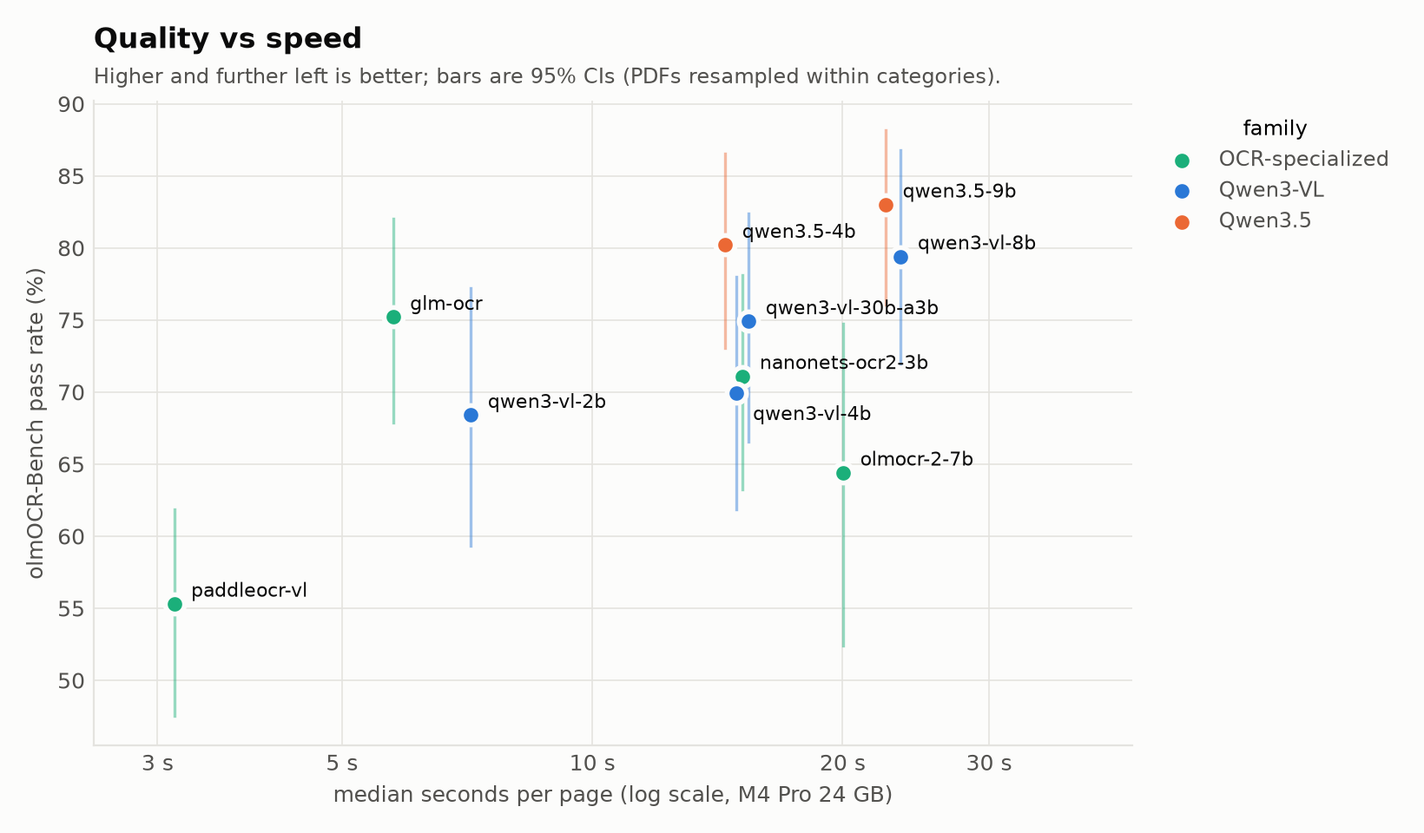
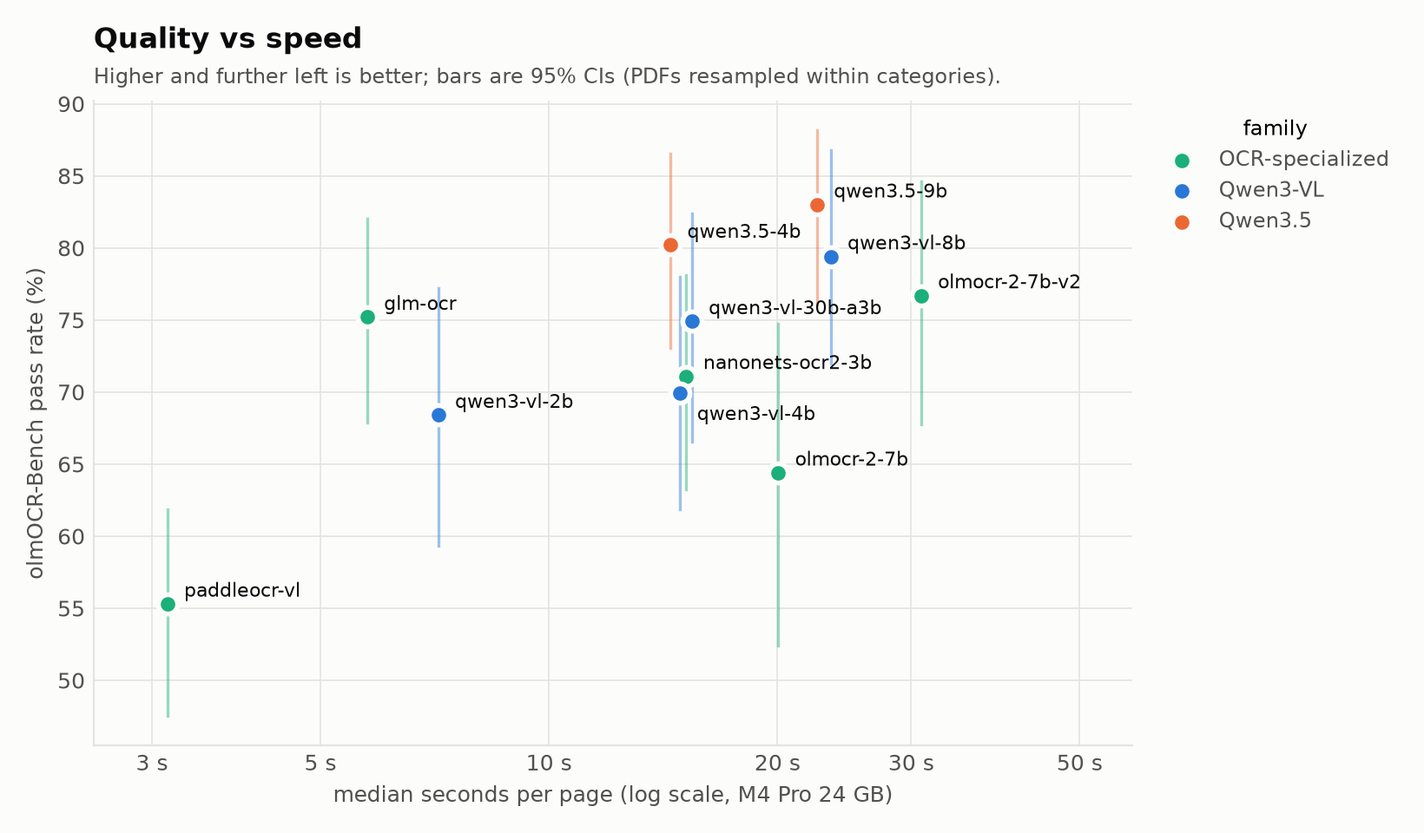
bench: final results with olmocr-2-7b-v2; docs and overview PDF regenerated
olmocr-2-7b-v2 (same weights, run closer to the authors' pipeline) on the screening
sample: 76.7% vs 64.4% for the first adapter (paired +12.3 pts [+2.0, +23.2],
p = 0.061), outputs with no page text 9 -> 0, median 30.9 vs 20.0 s/page; synthetic
CER unchanged (p = 0.94). The deep sample was chosen before v2 existed: the docs now
say so (generated note) instead of implying the selection rule covers it. The
olmOCR-Bench failure analysis gets a dated follow-up with the measured result.

diff --git a/scripts/bench_docs.py b/scripts/bench_docs.py
@@ -263,6 +263,31 @@ def _separation(summary: dict | None, suite_name: str, metric: str, label: str) 
     return text.strip()
 
 
+def not_in_deep(screen: dict | None, deep: dict | None) -> str:
+    """Candidates the selection rule would include but the deep run does not have (e.g. a
+    candidate added to the screening after the deep sample was chosen)."""
+    a, b = _olm(screen), _olm(deep)
+    if not a or not b:
+        return ""
+    pv = a.get("paired_vs_best", {})
+    missing = [
+        n
+        for n in complete(a, "pass_rate")
+        if n not in b["scores"] and n != a["best"] and pv.get(n) and not pv[n].get("significant")
+    ]
+    if not missing:
+        return ""
+    return (
+        "Not run on the deep sample, although the screening does not separate "
+        + ("it" if len(missing) == 1 else "them")
+        + " from the top mean: "
+        + names_list([f"{n} ({_p(pv[n]['p_value'])})" for n in missing])
+        + "; the deep sample was chosen before "
+        + ("it was" if len(missing) == 1 else "they were")
+        + " run."
+    )
+
+
 def _subset_mean(score, clusters: set[str]) -> float | None:
     """Mean over categories of the category mean, restricted to units in ``clusters`` (the
     scorer's own aggregation, applied to a subset of PDFs)."""
@@ -508,6 +533,8 @@ def results() -> str:
             "separate from the top mean (paired p ≥ 0.05), plus the one with the lowest "
             "synthetic CER",
         )
+        if note := not_in_deep(screen, deep):
+            out += [note, ""]
     if screen:
         out += [
             "#### Pass rate by category (screening, %)",

diff --git a/docs/benchmark/screen_report.md b/docs/benchmark/screen_report.md
@@ -1,6 +1,6 @@
 # OCR benchmark: run `screen`
 
-Generated 2026-09-25T11:01:20+00:00 · docingest 0.1.0 (pipeline 0.3.0) · mlx-vlm 0.7.3 · Apple M4 Pro, 24.0 GB RAM · macOS-26.6.2-arm64-arm-64bit
+Generated 2026-09-25T16:14:45+00:00 · docingest 0.1.0 (pipeline 0.3.0) · mlx-vlm 0.7.3 · Apple M4 Pro, 24.0 GB RAM · macOS-26.6.2-arm64-arm-64bit
 
 Intervals are 95% percentile bootstrap CIs that resample independent clusters, not single units: a synthetic page with all its degradation levels, an olmOCR-bench PDF with all its tests (within its category). Paired comparisons take the units both candidates scored: a cluster bootstrap CI (10000 resamples, seed 0) and a two-sided sign-flip test over clusters (every pattern up to 16 clusters, else 10000 random ones); *significant* means p < 0.05. With k clusters the smallest attainable p is 2/2^k.
 
@@ -11,6 +11,7 @@ Intervals are 95% percentile bootstrap CIs that resample independent clusters, n
 | glm-ocr | mlx-community/GLM-OCR-4bit | 97f5875069 | glm-ocr | mlx-vlm | – | – |
 | nanonets-ocr2-3b | mlx-community/Nanonets-OCR2-3B-4bit | fe1396cbeb | nanonets | mlx-vlm | – | – |
 | olmocr-2-7b | mlx-community/olmOCR-2-7B-1025-mlx-4bit | c0eaffb784 | olmocr | mlx-vlm | – | – |
+| olmocr-2-7b-v2 | mlx-community/olmOCR-2-7B-1025-mlx-4bit | c0eaffb784 | olmocr | mlx-vlm | – | – |
 | paddleocr-vl | mlx-community/PaddleOCR-VL-1.6-4bit | c8987b277b | paddleocr-vl | mlx-vlm | – | – |
 | qwen3-vl-2b | mlx-community/Qwen3-VL-2B-Instruct-4bit | 9c4f5209e5 | markdown | mlx-vlm | – | – |
 | qwen3-vl-30b-a3b | mlx-community/Qwen3-VL-30B-A3B-Instruct-4bit | 0555d34cb1 | markdown | mlx-vlm | – | – |
@@ -27,7 +28,7 @@ Primary metric: **cer** (lower is better).
 
 ### Overall
 
-| rank | candidate | cer | wer | word_f1 | char3_f1 | outputs |
+| # | candidate | cer | wer | word_f1 | char3_f1 | outputs |
 |---|---|---|---|---|---|---|
 | 1 | nanonets-ocr2-3b | 0.011 [0.004, 0.020] | 0.044 [0.029, 0.061] | 0.968 [0.957, 0.978] | 0.988 [0.982, 0.992] | 33/36 |
 | 2 | qwen3.5-9b | 0.014 [0.004, 0.030] | 0.039 [0.020, 0.064] | 0.975 [0.961, 0.987] | 0.991 [0.983, 0.996] | 33/36 |
@@ -37,8 +38,9 @@ Primary metric: **cer** (lower is better).
 | 6 | glm-ocr | 0.030 [0.009, 0.054] | 0.047 [0.023, 0.074] | 0.970 [0.954, 0.983] | 0.981 [0.968, 0.993] | 33/36 |
 | 7 | qwen3-vl-8b | 0.044 [0.003, 0.116] | 0.076 [0.024, 0.161] | 0.976 [0.966, 0.984] | 0.992 [0.987, 0.996] | 33/36 |
 | 8 | olmocr-2-7b | 0.069 [0.011, 0.137] | 0.097 [0.032, 0.169] | 0.946 [0.887, 0.980] | 0.960 [0.900, 0.993] | 33/36 |
-| 9 | qwen3-vl-4b | 0.073 [0.011, 0.157] | 0.098 [0.038, 0.178] | 0.940 [0.895, 0.973] | 0.957 [0.909, 0.991] | 33/36 |
-| 10 | qwen3-vl-2b | 0.094 [0.030, 0.179] | 0.107 [0.048, 0.189] | 0.940 [0.887, 0.972] | 0.954 [0.904, 0.983] | 33/36 |
+| 9 | olmocr-2-7b-v2 | 0.072 [0.018, 0.136] | 0.109 [0.051, 0.173] | 0.938 [0.898, 0.967] | 0.958 [0.917, 0.988] | 33/36 |
+| 10 | qwen3-vl-4b | 0.073 [0.011, 0.157] | 0.098 [0.038, 0.178] | 0.940 [0.895, 0.973] | 0.957 [0.909, 0.991] | 33/36 |
+| 11 | qwen3-vl-2b | 0.094 [0.030, 0.179] | 0.107 [0.048, 0.189] | 0.940 [0.887, 0.972] | 0.954 [0.904, 0.983] | 33/36 |
 
 One cluster = a page with all its degradation levels; 11 clusters.
 
@@ -54,12 +56,13 @@ One cluster = a page with all its degradation levels; 11 clusters.
 | glm-ocr | 0.038 [0.007, 0.083] | 0.027 [0.005, 0.055] | 0.024 [0.003, 0.051] |
 | qwen3-vl-8b | 0.061 [0.003, 0.169] | 0.009 [0.003, 0.022] | 0.062 [0.003, 0.170] |
 | olmocr-2-7b | 0.026 [0.004, 0.064] | 0.099 [0.003, 0.281] | 0.081 [0.007, 0.196] |
+| olmocr-2-7b-v2 | 0.030 [0.006, 0.067] | 0.133 [0.016, 0.290] | 0.054 [0.011, 0.107] |
 | qwen3-vl-4b | 0.013 [0.005, 0.025] | 0.195 [0.011, 0.460] | 0.011 [0.004, 0.023] |
 | qwen3-vl-2b | 0.061 [0.020, 0.122] | 0.161 [0.036, 0.366] | 0.060 [0.016, 0.124] |
 
-### Paired comparison vs best (`nanonets-ocr2-3b`)
+### Paired comparison vs `nanonets-ocr2-3b` (lowest mean)
 
-| candidate | Δ cer (candidate − best) [CI] | p | significant | pairs | clusters |
+| candidate | Δ cer (candidate − `nanonets-ocr2-3b`) [CI] | p | significant | pairs | clusters |
 |---|---|---|---|---|---|
 | qwen3.5-9b | +0.003 [-0.008, 0.018] | 0.7998 | no | 33 | 11 |
 | qwen3.5-4b | +0.010 [0.001, 0.025] | 0.0469 | yes | 33 | 11 |
@@ -68,6 +71,7 @@ One cluster = a page with all its degradation levels; 11 clusters.
 | glm-ocr | +0.019 [0.003, 0.038] | 0.1211 | no | 33 | 11 |
 | qwen3-vl-8b | +0.033 [-0.002, 0.100] | 0.4922 | no | 33 | 11 |
 | olmocr-2-7b | +0.057 [0.003, 0.125] | 0.0527 | no | 33 | 11 |
+| olmocr-2-7b-v2 | +0.061 [0.008, 0.124] | 0.0469 | yes | 33 | 11 |
 | qwen3-vl-4b | +0.062 [-0.002, 0.150] | 0.1865 | no | 33 | 11 |
 | qwen3-vl-2b | +0.083 [0.021, 0.162] | 0.0010 | yes | 33 | 11 |
 
@@ -77,7 +81,8 @@ One cluster = a page with all its degradation levels; 11 clusters.
 |---|---|---|---|---|---|---|---|---|---|---|
 | glm-ocr | 36 | 7.892 | 10.898 | ≥134.8 | 2.41 | ≥0.0% | 0.0% | n/a | 0.0% | 0 |
 | nanonets-ocr2-3b | 36 | 19.261 | 24.448 | ≥59.6 | 4.13 | ≥0.0% | 0.0% | n/a | 0.0% | 0 |
-| olmocr-2-7b | 36 | 30.212 | 40.085 | ≥35.6 | 6.56 | ≥0.0% | 0.0% | n/a | 0.0% | 0 |
+| olmocr-2-7b | 36 | 30.212 | 40.085 | ≥35.6 | 6.56 | ≥0.0% | 0.0% | n/a | 2.8% | 0 |
+| olmocr-2-7b-v2 | 36 | 55.102 | 222.159 | 48.9 | 6.56 | 0.0% | 0.0% | 52.8% | 0.0% | 0 |
 | paddleocr-vl | 36 | 3.608 | 5.556 | ≥247.1 | 1.68 | ≥0.0% | 0.0% | n/a | 0.0% | 0 |
 | qwen3-vl-2b | 36 | 11.082 | 19.389 | ≥70.4 | 2.99 | ≥5.6% | 5.6% | n/a | 0.0% | 0 |
 | qwen3-vl-30b-a3b | 36 | 21.538 | 32.207 | 67.6 | 19.33 | 2.8% | 0.0% | 2.8% | 0.0% | 0 |
@@ -97,18 +102,19 @@ Primary metric: **pass_rate** (higher is better).
 
 ### Overall
 
-| rank | candidate | pass_rate | outputs |
+| # | candidate | pass_rate | outputs |
 |---|---|---|---|
 | 1 | qwen3.5-9b | 83.0% [76.1, 88.2] | 42/42 |
 | 2 | qwen3.5-4b | 80.2% [73.0, 86.5] | 42/42 |
 | 3 | qwen3-vl-8b | 79.4% [72.0, 86.8] | 42/42 |
-| 4 | glm-ocr | 75.2% [67.9, 82.0] | 42/42 |
-| 5 | qwen3-vl-30b-a3b | 74.9% [66.6, 82.4] | 42/42 |
-| 6 | nanonets-ocr2-3b | 71.1% [63.2, 78.1] | 42/42 |
-| 7 | qwen3-vl-4b | 69.9% [61.8, 78.0] | 42/42 |
-| 8 | qwen3-vl-2b | 68.4% [59.3, 77.2] | 42/42 |
-| 9 | olmocr-2-7b | 64.4% [52.4, 74.8] | 42/42 |
-| 10 | paddleocr-vl | 55.3% [47.5, 61.9] | 42/42 |
+| 4 | olmocr-2-7b-v2 | 76.7% [67.8, 84.6] | 42/42 |
+| 5 | glm-ocr | 75.2% [67.9, 82.0] | 42/42 |
+| 6 | qwen3-vl-30b-a3b | 74.9% [66.6, 82.4] | 42/42 |
+| 7 | nanonets-ocr2-3b | 71.1% [63.2, 78.1] | 42/42 |
+| 8 | qwen3-vl-4b | 69.9% [61.8, 78.0] | 42/42 |
+| 9 | qwen3-vl-2b | 68.4% [59.3, 77.2] | 42/42 |
+| 10 | olmocr-2-7b | 64.4% [52.4, 74.8] | 42/42 |
+| 11 | paddleocr-vl | 55.3% [47.5, 61.9] | 42/42 |
 
 One cluster = a PDF with all its tests, drawn within its category; 42 clusters.
 
@@ -119,12 +125,13 @@ Official scorer CI, to compare with the leaderboard's ±: olmocr.bench: tests re
 | qwen3.5-9b | [78.2, 87.2] | 4.5% |
 | qwen3.5-4b | [74.9, 85.2] | 5.2% |
 | qwen3-vl-8b | [74.8, 83.9] | 4.6% |
+| olmocr-2-7b-v2 | [71.7, 81.6] | 4.9% |
 | glm-ocr | [70.5, 79.5] | 4.5% |
 | qwen3-vl-30b-a3b | [69.4, 80.1] | 5.4% |
 | nanonets-ocr2-3b | [66.1, 75.9] | 4.9% |
 | qwen3-vl-4b | [64.4, 75.4] | 5.5% |
 | qwen3-vl-2b | [62.7, 73.7] | 5.5% |
-| olmocr-2-7b | [58.6, 70.3] | 5.9% |
+| olmocr-2-7b | [58.6, 70.2] | 5.8% |
 | paddleocr-vl | [50.1, 60.9] | 5.4% |
 
 ### By category (pass_rate)
@@ -134,6 +141,7 @@ Official scorer CI, to compare with the leaderboard's ±: olmocr.bench: tests re
 | qwen3.5-9b | 83.3% [61.1, 97.4] | 100.0% [100.0, 100.0] | 88.0% [66.7, 100.0] | 87.5% [72.7, 100.0] | 73.3% [43.8, 94.1] | 50.0% [22.2, 70.6] | 88.2% [76.2, 94.0] | 93.8% [86.8, 100.0] |
 | qwen3.5-4b | 80.6% [61.1, 92.9] | 100.0% [100.0, 100.0] | 76.0% [46.2, 95.5] | 90.6% [86.1, 96.5] | 66.7% [40.0, 88.2] | 56.2% [30.4, 79.0] | 86.8% [77.6, 96.0] | 84.4% [58.3, 100.0] |
 | qwen3-vl-8b | 88.9% [67.5, 100.0] | 100.0% [100.0, 100.0] | 44.0% [20.0, 87.5] | 87.5% [78.6, 94.6] | 80.0% [54.5, 94.4] | 59.4% [28.0, 82.5] | 91.2% [87.0, 96.5] | 84.4% [50.0, 100.0] |
+| olmocr-2-7b-v2 | 80.6% [54.2, 95.8] | 95.1% [87.8, 100.0] | 100.0% [100.0, 100.0] | 43.8% [12.1, 81.5] | 66.7% [28.6, 94.1] | 56.2% [30.4, 79.0] | 83.8% [75.0, 90.6] | 87.5% [66.7, 100.0] |
 | glm-ocr | 69.4% [35.7, 86.7] | 100.0% [100.0, 100.0] | 100.0% [100.0, 100.0] | 96.9% [91.4, 100.0] | 73.3% [50.0, 88.9] | 53.1% [28.6, 77.1] | 77.9% [65.2, 92.9] | 31.2% [0.0, 66.7] |
 | qwen3-vl-30b-a3b | 83.3% [64.9, 96.5] | 100.0% [100.0, 100.0] | 64.0% [33.3, 87.0] | 75.0% [55.6, 90.6] | 66.7% [38.5, 93.3] | 56.2% [29.6, 78.1] | 91.2% [84.6, 94.3] | 62.5% [27.8, 100.0] |
 | nanonets-ocr2-3b | 75.0% [44.8, 91.7] | 100.0% [100.0, 100.0] | 32.0% [23.1, 42.1] | 90.6% [86.1, 96.5] | 80.0% [58.3, 94.1] | 56.2% [24.0, 82.3] | 35.3% [3.9, 72.7] | 100.0% [100.0, 100.0] |
@@ -142,12 +150,13 @@ Official scorer CI, to compare with the leaderboard's ±: olmocr.bench: tests re
 | olmocr-2-7b | 83.3% [47.8, 100.0] | 80.5% [68.3, 92.7] | 72.0% [41.7, 100.0] | 71.9% [37.1, 96.4] | 46.7% [13.3, 75.0] | 37.5% [18.8, 56.7] | 70.6% [21.4, 85.3] | 53.1% [19.4, 90.0] |
 | paddleocr-vl | 66.7% [40.9, 77.1] | 95.1% [87.8, 100.0] | 20.0% [5.9, 35.0] | 78.1% [63.3, 91.7] | 66.7% [28.6, 94.1] | 43.8% [16.7, 67.7] | 66.2% [53.8, 89.3] | 6.2% [0.0, 20.0] |
 
-### Paired comparison vs best (`qwen3.5-9b`)
+### Paired comparison vs `qwen3.5-9b` (highest mean)
 
-| candidate | Δ pass_rate (candidate − best) [CI] | p | significant | pairs | clusters |
+| candidate | Δ pass_rate (candidate − `qwen3.5-9b`) [CI] | p | significant | pairs | clusters |
 |---|---|---|---|---|---|
 | qwen3.5-4b | -2.9% [-8.6, 3.3] | 0.3933 | no | 281 | 42 |
 | qwen3-vl-8b | -3.6% [-10.0, 3.8] | 0.4940 | no | 281 | 42 |
+| olmocr-2-7b-v2 | -6.3% [-12.8, 0.5] | 0.1604 | no | 281 | 42 |
 | glm-ocr | -7.8% [-14.2, -0.5] | 0.1156 | no | 281 | 42 |
 | qwen3-vl-30b-a3b | -8.2% [-16.1, -0.3] | 0.0747 | no | 281 | 42 |
 | nanonets-ocr2-3b | -11.9% [-18.4, -4.8] | 0.0432 | yes | 281 | 42 |
@@ -162,7 +171,8 @@ Official scorer CI, to compare with the leaderboard's ±: olmocr.bench: tests re
 |---|---|---|---|---|---|---|---|---|---|---|
 | glm-ocr | 42 | 5.761 | 12.742 | ≥109.7 | 2.57 | ≥0.0% | 0.0% | n/a | 0.0% | 0 |
 | nanonets-ocr2-3b | 42 | 15.171 | 32.99 | ≥55.6 | 4.14 | ≥2.4% | 2.4% | n/a | 0.0% | 0 |
-| olmocr-2-7b | 42 | 20.04 | 44.381 | ≥33.9 | 6.6 | ≥0.0% | 0.0% | n/a | 0.0% | 0 |
+| olmocr-2-7b | 42 | 20.04 | 44.381 | ≥33.9 | 6.6 | ≥0.0% | 0.0% | n/a | 19.1% | 0 |
+| olmocr-2-7b-v2 | 42 | 30.908 | 182.927 | 48.7 | 6.6 | 0.0% | 0.0% | 35.7% | 0.0% | 0 |
 | paddleocr-vl | 42 | 3.142 | 6.706 | ≥209.1 | 1.69 | ≥0.0% | 0.0% | n/a | 0.0% | 0 |
 | qwen3-vl-2b | 42 | 7.146 | 23.133 | ≥88.2 | 3.06 | ≥0.0% | 0.0% | n/a | 0.0% | 0 |
 | qwen3-vl-30b-a3b | 42 | 15.423 | 36.308 | 66.8 | 19.49 | 2.4% | 0.0% | 2.4% | 0.0% | 0 |

diff --git a/docs/benchmark.md b/docs/benchmark.md
@@ -19,12 +19,13 @@ Machine: Apple M4 Pro, 24 GB; mlx-vlm 0.7.3, mlx 0.32.2. Full generated reports:
 | qwen3.5-9b | 83.0 [76.1, 88.2] | 4.5 | top mean | 22.5 | 7.8 | 0% | ≥0% |
 | qwen3.5-4b | 80.2 [73.0, 86.5] | 5.2 | -2.9 pts, p = 0.393: not distinguishable | 14.5 | 5.0 | 0% | ≥0% |
 | qwen3-vl-8b | 79.4 [72.0, 86.8] | 4.6 | -3.6 pts, p = 0.494: not distinguishable | 23.5 | 7.1 | 0% | ≥2% |
+| olmocr-2-7b-v2 | 76.7 [67.8, 84.6] | 4.9 | -6.3 pts, p = 0.160: not distinguishable | 30.9 | 6.6 | 0% | 0% |
 | glm-ocr | 75.2 [67.9, 82.0] | 4.5 | -7.8 pts, p = 0.116: not distinguishable | 5.8 | 2.6 | 0% | ≥0% |
 | qwen3-vl-30b-a3b | 74.9 [66.6, 82.4] | 5.4 | -8.2 pts, p = 0.075: not distinguishable | 15.4 | 19.5 | 0% | 2% |
 | nanonets-ocr2-3b | 71.1 [63.2, 78.1] | 4.9 | -11.9 pts, p = 0.043: lower (p < 0.05) | 15.2 | 4.1 | 0% | ≥2% |
 | qwen3-vl-4b | 69.9 [61.8, 78.0] | 5.5 | -13.1 pts, p = 0.001: lower (p < 0.05) | 14.9 | 4.5 | 0% | ≥0% |
 | qwen3-vl-2b | 68.4 [59.3, 77.2] | 5.5 | -14.6 pts, p = 0.001: lower (p < 0.05) | 7.1 | 3.1 | 0% | ≥0% |
-| olmocr-2-7b | 64.4 [52.4, 74.8] | 5.9 | -18.6 pts, p = 0.001: lower (p < 0.05) | 20.0 | 6.6 | 0% | ≥0% |
+| olmocr-2-7b | 64.4 [52.4, 74.8] | 5.8 | -18.6 pts, p = 0.001: lower (p < 0.05) | 20.0 | 6.6 | 19% | ≥0% |
 | paddleocr-vl | 55.3 [47.5, 61.9] | 5.4 | -27.7 pts, p = 0.000: lower (p < 0.05) | 3.1 | 1.7 | 0% | ≥0% |
 
 42 PDFs (42 clusters). *official ±* is the scorer's own interval (tests resampled independently, narrower); the bracketed CI resamples whole PDFs within categories. *vs top mean*: paired cluster bootstrap and sign-flip test against the candidate with the highest mean; p-values are per comparison, not adjusted for the number of comparisons (Comparisons below gives the Holm-adjusted verdicts).
@@ -42,6 +43,8 @@ Machine: Apple M4 Pro, 24 GB; mlx-vlm 0.7.3, mlx 0.32.2. Full generated reports:
 
 84 PDFs (84 clusters). *official ±* is the scorer's own interval (tests resampled independently, narrower); the bracketed CI resamples whole PDFs within categories. *vs top mean*: paired cluster bootstrap and sign-flip test against the candidate with the highest mean; p-values are per comparison, not adjusted for the number of comparisons (Comparisons below gives the Holm-adjusted verdicts).
 
+Not run on the deep sample, although the screening does not separate it from the top mean: olmocr-2-7b-v2 (p = 0.160); the deep sample was chosen before it was run.
+
 #### Pass rate by category (screening, %)
 
 ![olmOCR-Bench categories](benchmark/olmocr_categories.png)
@@ -51,6 +54,7 @@ Machine: Apple M4 Pro, 24 GB; mlx-vlm 0.7.3, mlx 0.32.2. Full generated reports:
 | qwen3.5-9b | 83 | 88 | 94 | 50 | 88 | 73 | 88 |
 | qwen3.5-4b | 81 | 87 | 84 | 56 | 76 | 67 | 91 |
 | qwen3-vl-8b | 89 | 91 | 84 | 59 | 44 | 80 | 88 |
+| olmocr-2-7b-v2 | 81 | 84 | 88 | 56 | 100 | 67 | 44 |
 | glm-ocr | 69 | 78 | 31 | 53 | 100 | 73 | 97 |
 | qwen3-vl-30b-a3b | 83 | 91 | 62 | 56 | 64 | 67 | 75 |
 | nanonets-ocr2-3b | 75 | 35 | 100 | 56 | 32 | 80 | 91 |
@@ -71,10 +75,11 @@ Machine: Apple M4 Pro, 24 GB; mlx-vlm 0.7.3, mlx 0.32.2. Full generated reports:
 | glm-ocr | 3.0 [0.9, 5.4] | 0.3 | 0.970 | 3.8 | 2.4 | 2.7 | 7.9 | 2.4 |
 | qwen3-vl-8b | 4.4 [0.3, 11.6] | 0.4 | 0.976 | 6.1 | 6.2 | 0.9 | 32.1 | 6.9 |
 | olmocr-2-7b | 6.9 [1.1, 13.7] | 0.3 | 0.946 | 2.6 | 8.1 | 9.9 | 30.2 | 6.6 |
+| olmocr-2-7b-v2 | 7.2 [1.8, 13.6] | 0.7 | 0.938 | 3.0 | 5.4 | 13.3 | 55.1 | 6.6 |
 | qwen3-vl-4b | 7.3 [1.1, 15.7] | 0.7 | 0.940 | 1.3 | 1.1 | 19.5 | 20.3 | 4.5 |
 | qwen3-vl-2b | 9.4 [3.0, 17.9] | 2.7 | 0.940 | 6.1 | 6.0 | 16.1 | 11.1 | 3.0 |
 
-**Reported separately: `olmocr_2502.18443.pdf#p001`.** Figure 1's internal vector text (1,103 of 3,225 reference characters) is in the text layer, panel-interleaved and with its spaces lost; a flawless transcription of the visible non-figure text scores CER 0.342 against it (found by the failure analysis). Per model on this page: nanonets-ocr2-3b 36.8%, qwen3.5-9b 46.7%, qwen3.5-4b 33.7%, paddleocr-vl 34.9%, qwen3-vl-30b-a3b 34.6%, glm-ocr 46.1%, qwen3-vl-8b 34.6%, olmocr-2-7b 36.7%, qwen3-vl-4b 35.6%, qwen3-vl-2b 56.9%.
+**Reported separately: `olmocr_2502.18443.pdf#p001`.** Figure 1's internal vector text (1,103 of 3,225 reference characters) is in the text layer, panel-interleaved and with its spaces lost; a flawless transcription of the visible non-figure text scores CER 0.342 against it (found by the failure analysis). Per model on this page: nanonets-ocr2-3b 36.8%, qwen3.5-9b 46.7%, qwen3.5-4b 33.7%, paddleocr-vl 34.9%, qwen3-vl-30b-a3b 34.6%, glm-ocr 46.1%, qwen3-vl-8b 34.6%, olmocr-2-7b 36.7%, olmocr-2-7b-v2 39.3%, qwen3-vl-4b 35.6%, qwen3-vl-2b 56.9%.
 
 ![Synthetic CER by degradation](benchmark/synthetic_cer.png)
 
@@ -83,11 +88,12 @@ Machine: Apple M4 Pro, 24 GB; mlx-vlm 0.7.3, mlx 0.32.2. Full generated reports:
 Generated from the run summaries and per-unit scores. They describe how the candidates differ; they do not pick a model.
 
 - **olmOCR-Bench, deep sample: paired tests against the highest mean.** qwen3.5-4b has the highest mean (79.4%, 84 PDFs). Not distinguished from it at the 5% level: qwen3.5-9b (-0.1 pts, p = 0.971), qwen3-vl-8b (-3.2 pts, p = 0.339), qwen3-vl-30b-a3b (-4.5 pts, p = 0.077) and glm-ocr (-7.2 pts, p = 0.053). Distinguished (lower): nanonets-ocr2-3b (-11.7 pts, p = 0.005). These p-values are per comparison; with a Holm correction for the 5 comparisons, the same verdicts hold.
-- **Synthetic CER: paired tests against the lowest mean.** nanonets-ocr2-3b has the lowest mean (1.1%, 36 page images). Not distinguished from it at the 5% level: qwen3.5-9b (+0.3 pts, p = 0.800), paddleocr-vl (+1.5 pts, p = 0.142), qwen3-vl-30b-a3b (+1.8 pts, p = 0.363), glm-ocr (+1.9 pts, p = 0.121), qwen3-vl-8b (+3.3 pts, p = 0.492), olmocr-2-7b (+5.7 pts, p = 0.053) and qwen3-vl-4b (+6.2 pts, p = 0.187). Distinguished (higher): qwen3.5-4b (+1.0 pts, p = 0.047) and qwen3-vl-2b (+8.3 pts, p < 0.001). These p-values are per comparison; with a Holm correction for the 9 comparisons, qwen3-vl-2b remains distinguished.
+- **Synthetic CER: paired tests against the lowest mean.** nanonets-ocr2-3b has the lowest mean (1.1%, 36 page images). Not distinguished from it at the 5% level: qwen3.5-9b (+0.3 pts, p = 0.800), paddleocr-vl (+1.5 pts, p = 0.142), qwen3-vl-30b-a3b (+1.8 pts, p = 0.363), glm-ocr (+1.9 pts, p = 0.121), qwen3-vl-8b (+3.3 pts, p = 0.492), olmocr-2-7b (+5.7 pts, p = 0.053) and qwen3-vl-4b (+6.2 pts, p = 0.187). Distinguished (higher): qwen3.5-4b (+1.0 pts, p = 0.047), olmocr-2-7b-v2 (+6.1 pts, p = 0.047) and qwen3-vl-2b (+8.3 pts, p < 0.001). These p-values are per comparison; with a Holm correction for the 10 comparisons, qwen3-vl-2b remains distinguished.
 - **Screening (42 PDFs) → deep (84 PDFs), pass rate.** The deep sample contains the screening PDFs and transcribes all of them again: qwen3.5-4b 80.2 → 79.4 (42 added: 77.8); qwen3.5-9b 83.0 → 79.3 (42 added: 74.6); qwen3-vl-8b 79.4 → 76.2 (42 added: 73.3); qwen3-vl-30b-a3b 74.9 → 74.9 (42 added: 74.1); glm-ocr 75.2 → 72.1 (same 42 PDFs, transcribed again: 73.3; 42 added: 70.5); nanonets-ocr2-3b 71.1 → 67.6 (same 42 PDFs, transcribed again: 73.0; 42 added: 61.9). For glm-ocr and nanonets-ocr2-3b the second transcription of the same pages scored differently, so part of the change is run-to-run variation, not the added PDFs.
 - **Per category (deep sample), lowest to highest pass rate:** arXiv math 60 (nanonets-ocr2-3b) to 88 (qwen3-vl-8b); old scans math 30 (nanonets-ocr2-3b) to 88 (qwen3-vl-8b); tables 35 (glm-ocr) to 88 (qwen3.5-4b, qwen3.5-9b and nanonets-ocr2-3b); old scans 34 (qwen3.5-9b and glm-ocr) to 40 (nanonets-ocr2-3b); headers/footers 51 (qwen3-vl-8b and nanonets-ocr2-3b) to 93 (glm-ocr); multi-column 75 (qwen3-vl-30b-a3b) to 85 (nanonets-ocr2-3b); tiny text 82 (qwen3-vl-30b-a3b) to 89 (qwen3.5-4b, glm-ocr and nanonets-ocr2-3b). Each category score rests on about 12 PDFs; their 95% CIs have half-widths of ±6 to ±28 points (median ±13). Tables and headers/footers also depend on the prompt: the general models' Markdown prompt asks them to omit headers and footers, and GLM-OCR and PaddleOCR-VL ran in whole-page text mode, not their region-level table mode (see the olmOCR-Bench failure analysis).
-- **Speed and memory (screening).** Median time per page runs from 3.1 s (paddleocr-vl) to 23.5 s (qwen3-vl-8b), about 7x apart. Peak memory runs from 1.7 GB (paddleocr-vl) to 19.5 GB (qwen3-vl-30b-a3b); the next highest is 7.8 GB (qwen3.5-9b). The quality-vs-speed chart plots pass rate against speed.
-- **The two suites order the candidates differently.** Of the 45 pairs, 16 are ordered one way by olmOCR-Bench mean pass rate and the other way by synthetic mean CER. Both differences are significant (paired tests, p < 0.05 in each suite) for none of them. Synthetic means are driven by a few failure pages (see the median CER note); olmOCR-Bench also scores tables, math rendering, reading order and header/footer removal.
+- **Speed and memory (screening).** Median time per page runs from 3.1 s (paddleocr-vl) to 30.9 s (olmocr-2-7b-v2), about 10x apart. Peak memory runs from 1.7 GB (paddleocr-vl) to 19.5 GB (qwen3-vl-30b-a3b); the next highest is 7.8 GB (qwen3.5-9b). The quality-vs-speed chart plots pass rate against speed.
+- **The two suites order the candidates differently.** Of the 55 pairs, 21 are ordered one way by olmOCR-Bench mean pass rate and the other way by synthetic mean CER. Both differences are significant (paired tests, p < 0.05 in each suite) for none of them. Synthetic means are driven by a few failure pages (see the median CER note); olmOCR-Bench also scores tables, math rendering, reading order and header/footer removal.
+- **Same weights, different adapter: olmOCR-2 run closer to its authors' pipeline (prompt before the image; their temperature ladder, retried until the output has front matter followed by page text) versus the first adapter (image first, retried only on the token cap).** olmOCR-Bench pass rate 64.4 → 76.7 (paired +12.3 pts [+2.0, +23.2], p = 0.061); outputs with no page text 9 → 0 of 42 pages; median 20.0 → 30.9 s/page; synthetic CER 6.9 → 7.2 (paired +0.4 pts [-9.0, +9.5], p = 0.936).
 
 <!-- /RESULTS -->
 

diff --git a/docs/benchmark/deep_report.md b/docs/benchmark/deep_report.md
@@ -1,6 +1,6 @@
 # OCR benchmark: run `deep`
 
-Generated 2026-09-25T14:15:04+00:00 · docingest 0.3.1 (pipeline 0.3.1) · mlx-vlm 0.7.3 · Apple M4 Pro, 24.0 GB RAM · macOS-26.6.2-arm64-arm-64bit
+Generated 2026-09-25T16:14:46+00:00 · docingest 0.3.1 (pipeline 0.3.1) · mlx-vlm 0.7.3 · Apple M4 Pro, 24.0 GB RAM · macOS-26.6.2-arm64-arm-64bit
 
 Intervals are 95% percentile bootstrap CIs that resample independent clusters, not single units: a synthetic page with all its degradation levels, an olmOCR-bench PDF with all its tests (within its category). Paired comparisons take the units both candidates scored: a cluster bootstrap CI (10000 resamples, seed 0) and a two-sided sign-flip test over clusters (every pattern up to 16 clusters, else 10000 random ones); *significant* means p < 0.05. With k clusters the smallest attainable p is 2/2^k.
 
@@ -23,7 +23,7 @@ Primary metric: **pass_rate** (higher is better).
 
 ### Overall
 
-| rank | candidate | pass_rate | outputs |
+| # | candidate | pass_rate | outputs |
 |---|---|---|---|
 | 1 | qwen3.5-4b | 79.4% [74.2, 83.9] | 84/84 |
 | 2 | qwen3.5-9b | 79.3% [74.3, 83.5] | 84/84 |
@@ -56,9 +56,9 @@ Official scorer CI, to compare with the leaderboard's ±: olmocr.bench: tests re
 | glm-ocr | 65.7% [41.3, 84.9] | 98.8% [96.3, 100.0] | 93.3% [77.5, 100.0] | 89.0% [74.1, 100.0] | 77.5% [66.7, 87.2] | 33.9% [14.5, 54.7] | 83.5% [71.1, 95.2] | 35.4% [8.1, 64.4] |
 | nanonets-ocr2-3b | 59.7% [32.4, 80.7] | 98.8% [96.3, 100.0] | 51.1% [36.9, 68.4] | 89.0% [78.3, 98.4] | 85.0% [73.0, 95.1] | 40.0% [18.8, 62.3] | 29.8% [2.6, 58.4] | 87.7% [74.6, 97.2] |
 
-### Paired comparison vs best (`qwen3.5-4b`)
+### Paired comparison vs `qwen3.5-4b` (highest mean)
 
-| candidate | Δ pass_rate (candidate − best) [CI] | p | significant | pairs | clusters |
+| candidate | Δ pass_rate (candidate − `qwen3.5-4b`) [CI] | p | significant | pairs | clusters |
 |---|---|---|---|---|---|
 | qwen3.5-9b | -0.1% [-4.4, 4.2] | 0.9713 | no | 558 | 84 |
 | qwen3-vl-8b | -3.2% [-8.9, 2.7] | 0.3391 | no | 558 | 84 |

diff --git a/docs/benchmark/olmocr_bench_failure_analysis.md b/docs/benchmark/olmocr_bench_failure_analysis.md
@@ -2,8 +2,24 @@
 
 Run `screen`, 42 PDFs (6 per category), official scorer olmocr 0.4.27. Three analysts re-ran the
 scorer with per-test failure output on a scratch copy; a verifier re-checked the quantified claims.
-Findings led to pipeline 0.3.1 changes (profiles run each model the way its authors do) and to the
-extra candidate `olmocr-2-7b-v2`.
+Findings led to pipeline 0.3.1 changes (profiles run each model closer to the way its authors do)
+and to the extra candidate `olmocr-2-7b-v2`.
+
+## Follow-up, 2026-09-25: olmocr-2-7b-v2 measured
+
+Same weights and the same 42 PDFs, run closer to the authors' pipeline: prompt before the image,
+their temperature ladder, and a retry until the output has front matter followed by page text.
+
+| | olmocr-2-7b | olmocr-2-7b-v2 |
+|---|---|---|
+| pass rate [95% CI] | 64.4 [52.4, 74.8] | 76.7 [67.8, 84.6] |
+| outputs with no page text | 9 of 42 | 0 of 42 |
+| median s/page | 20.0 | 30.9 (36% of pages retried at least once) |
+
+- **Paired difference:** +12.3 pts [+2.0, +23.2], sign-flip p = 0.061.
+- **Against the estimate below:** the measured 76.7 is inside the 73.9–76.8 range estimated from other models' results on the header-only pages.
+- **Remaining gap to the published 82.4:** v2 still differs from the official pipeline (no strict front-matter parse, no rotation retries, no text-layer fallback), and it runs 4-bit on MLX.
+- **Sources:** numbers from `data/bench/runs/screen/summary.json`; the generated comparison is in [../benchmark.md](../benchmark.md).
 
 # olmOCR-Bench screen: failure-mode synthesis
 
